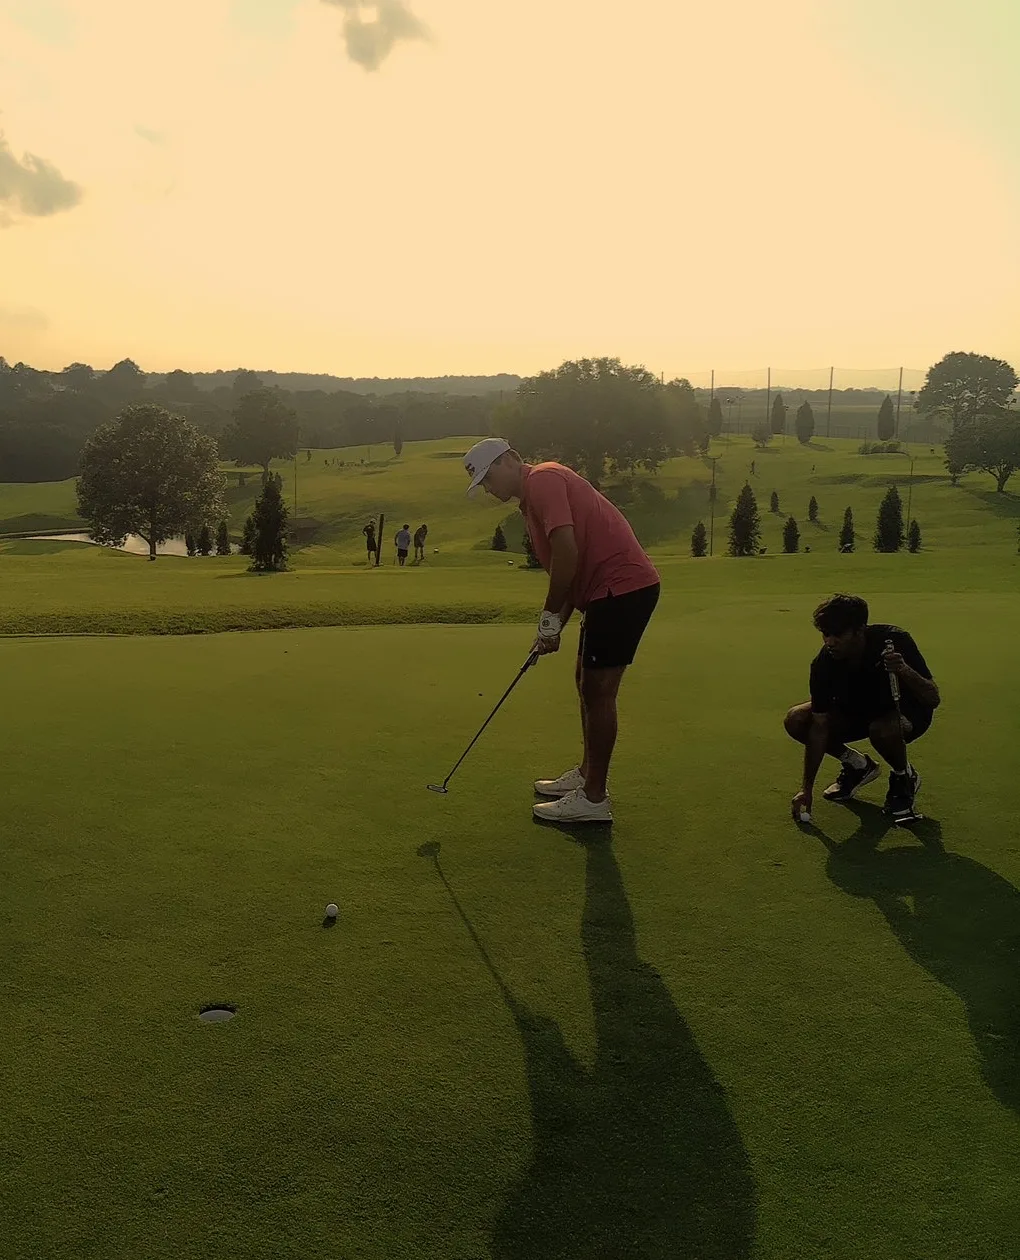
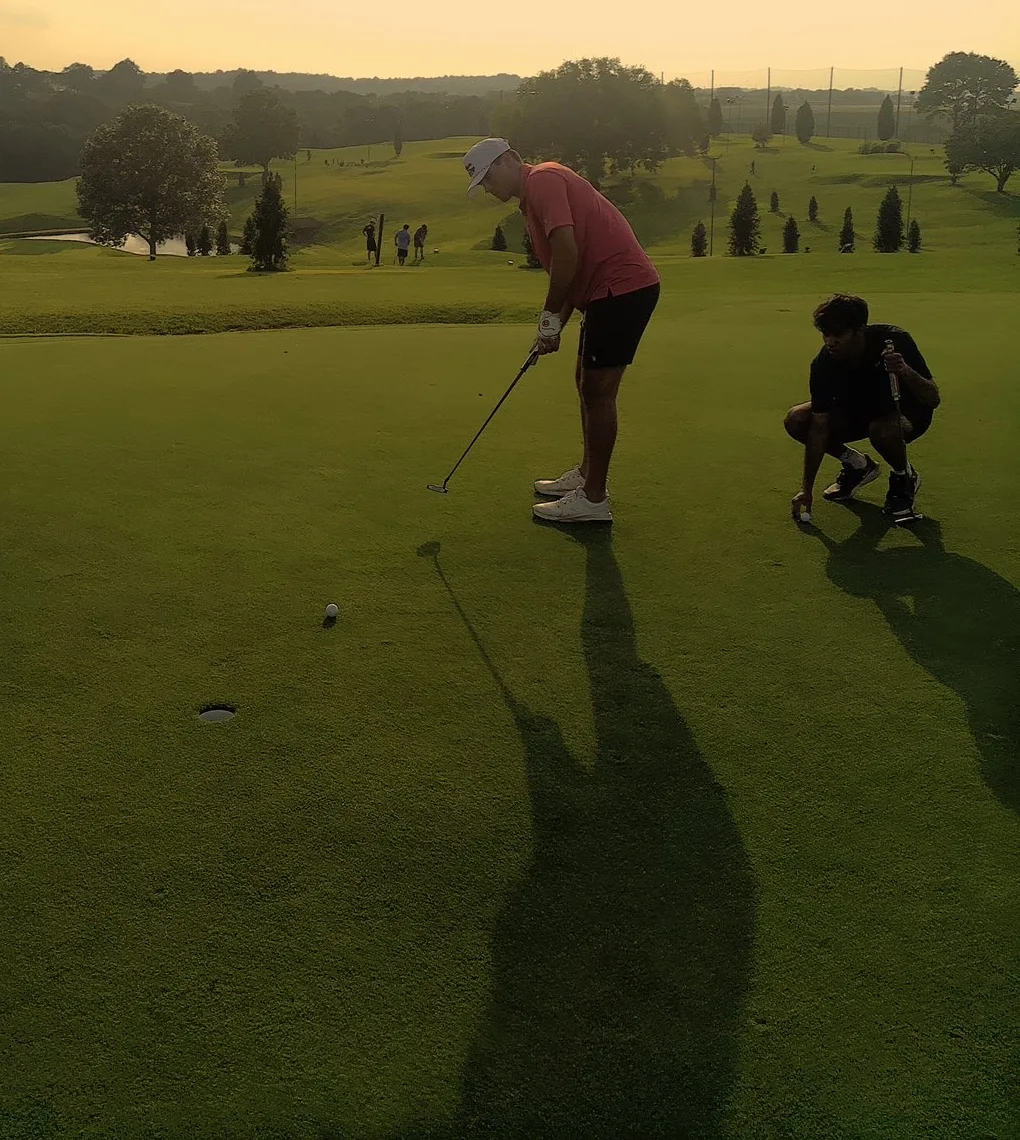
Reframe golf photo to show the ball and cup
Wider desktop crop and a lower crop on phones keep the golfer, ball and cup in
frame; the phone caption fade is shorter so the green is not darkened.

Claude-Session: https://claude.ai/code/session_01TLAv8321UDX7epQ14evEqF

diff --git a/site.css b/site.css
@@ -93,7 +93,7 @@ a { color: inherit; }
 .plate--suit { inset: auto; will-change: transform, opacity; transform-origin: 50% 32%; }
 .plate--suit .ph { object-position: 50% 28%; }
 .plate--golf { clip-path: inset(100% 0 0 0); will-change: clip-path; }
-.plate--golf .ph { object-position: 50% 46%; }
+.plate--golf .ph { object-position: 50% 82%; }
 .scrim {
   position: absolute; inset: 0; opacity: 0; pointer-events: none;
   background: linear-gradient(90deg, rgba(6, 9, 14, .86) 0%, rgba(6, 9, 14, .62) 34%, rgba(6, 9, 14, 0) 62%);
@@ -255,8 +255,8 @@ a.card.is-strike { border-color: var(--accent); }
   .ph { object-position: 52% 30%; }
   .plate--field { transform-origin: 52% 16%; }
   .plate--suit .ph { object-position: 50% 30%; }
-  .plate--golf .ph { object-position: 55% 50%; }
-  .scrim { background: linear-gradient(0deg, rgba(6, 9, 14, .92) 0%, rgba(6, 9, 14, .7) 38%, rgba(6, 9, 14, 0) 64%); }
+  .plate--golf .ph { object-position: 36% 50%; }
+  .scrim { background: linear-gradient(0deg, rgba(6, 9, 14, .92) 0%, rgba(6, 9, 14, .72) 24%, rgba(6, 9, 14, 0) 46%); }
   .panel { left: 16px; right: 16px; width: auto; top: auto; bottom: 28px; transform: none; }
   .panel--intro { bottom: 24px; }
   .panel h1 { font-size: clamp(48px, 14vw, 64px); }
